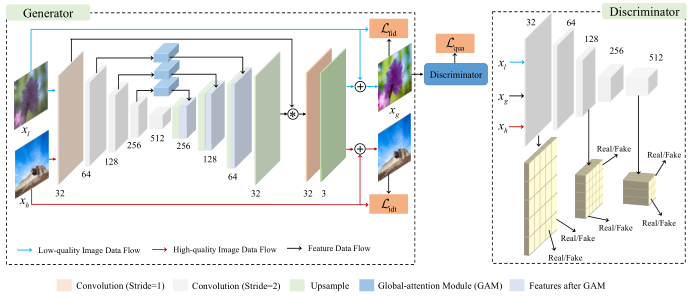
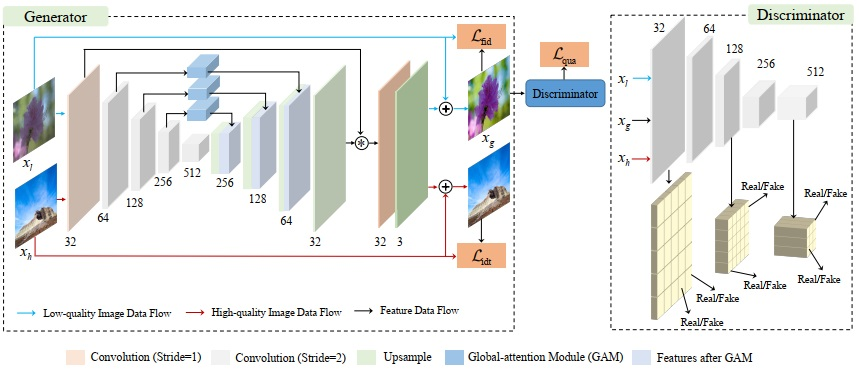
update

diff --git a/README.md b/README.md
@@ -7,7 +7,7 @@ This website shares the codes of the "Towards Unsupervised Deep Image Enhancemen
 Improving the aesthetic quality of images is challenging and eager for the public. To address this problem, most existing algorithms are based on supervised learning methods to learn an automatic photo enhancer for paired data, which consists of low-quality photos and corresponding expert-retouched versions. However, the style and characteristics of photos retouched by experts may not meet the needs or preferences of general users. In this paper, we present an unsupervised image enhancement generative adversarial network (UEGAN), which learns the corresponding image-to-image mapping from a set of images with desired characteristics in an unsupervised manner, rather than learning on a large number of paired images. The proposed model is based on single deep GAN which embeds the modulation and attention mechanisms to capture richer global and local features. Based on the proposed model, we introduce two losses to deal with the unsupervised image enhancement: (1) fidelity loss, which is defined as a ℓ2 regularization in the feature domain of a pre-trained VGG network to ensure the content between the enhanced image and the input image is the same, and (2) quality loss that is formulated as a relativistic hinge adversarial loss to endow the input image the desired characteristics. Both quantitative and qualitative results show that the proposed model effectively improves the aesthetic quality of images.
 
 **The framework of UEGAN:**
-<img src="./figures/framework.png" width = "100%" height="100%" div align=center>
+<img src="./figures/framework.jpg" width = "100%" height="100%" div align=center>
 
 ## Requirements and Installation
 We recommended the following dependencies.
